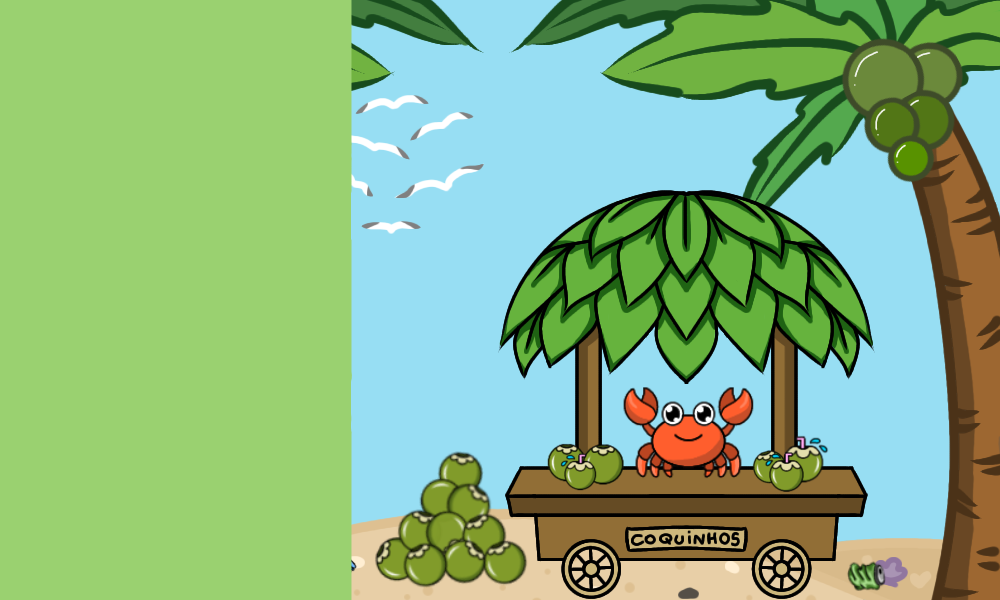
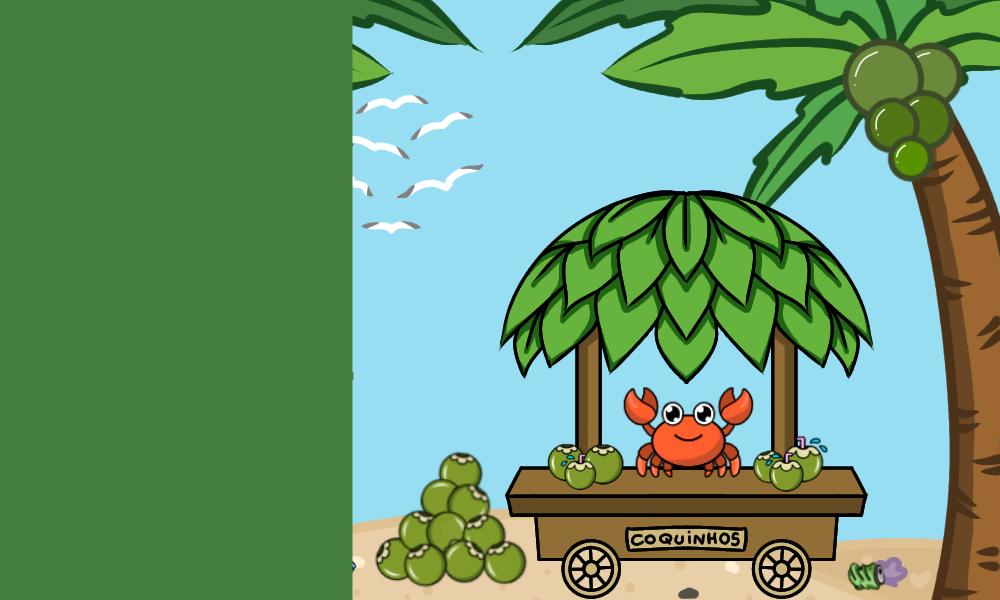
aumentando dificuldade
deixando a cena 1 mais legivel

diff --git a/src/game.c b/src/game.c
@@ -52,7 +52,7 @@ Texture2D texturasSkins[6][5];
 const char* nomesSkins[6] = { "player", "maria", "gaiamum", "pirata", "robo", "chico" };
 
 // Adiciona cocos conforme dificuldade aumenta //
-int cocosAdicionados = 2;
+int cocosAdicionados = 3;
 
 // Protótipos das funções de ranking e interface //
 void DrawTutorial();
@@ -100,11 +100,11 @@ void InitGame() {
 
     // Carrega o recorde e define o que está desbloqueado
     CarregarRecorde();
-    if (recorde >= 200)      maiorSkinDesbloqueada = 5;
-    else if (recorde >= 120) maiorSkinDesbloqueada = 4;
-    else if (recorde >= 80)  maiorSkinDesbloqueada = 3;
-    else if (recorde >= 50)  maiorSkinDesbloqueada = 2;
-    else if (recorde >= 20)  maiorSkinDesbloqueada = 1;
+    if (recorde >= 500)      maiorSkinDesbloqueada = 5;
+    else if (recorde >= 300) maiorSkinDesbloqueada = 4;
+    else if (recorde >= 180)  maiorSkinDesbloqueada = 3;
+    else if (recorde >= 100)  maiorSkinDesbloqueada = 2;
+    else if (recorde >= 50)  maiorSkinDesbloqueada = 1;
     else                     maiorSkinDesbloqueada = 0;
 
     // --- 2º INICIALIZA OS ELEMENTOS DO JOGO --- //
@@ -126,7 +126,7 @@ void InitGame() {
     bonusTimer = 0;
     gameOver = false;
     gameTimer = 0;
-    cocosAdicionados = 2;
+    cocosAdicionados = 3;
     playerSpeedMultiplier = 1.0f; 
 }
 
@@ -136,24 +136,27 @@ void UpdateGameProgression(float deltaTime) {
     extern void AddCoco(); 
     
     // Sistema de progressão da branch danda //
-    if (score >= 10 && cocosAdicionados == 2) {
-        AddCoco();
-        cocosAdicionados = 3;
-    } else if (score >= 25 && cocosAdicionados == 3) {
+    if (score >= 10 && cocosAdicionados == 3) {
         AddCoco();
         cocosAdicionados = 4;
-    } else if (score >= 50 && cocosAdicionados == 4) {
+    } else if (score >= 25 && cocosAdicionados == 4) {
         AddCoco();
-        cocosAdicionados = 5;
-    } else if (score >= 80 && cocosAdicionados == 5) {
         AddCoco();
         cocosAdicionados = 6;
-    } else if (score >= 120 && cocosAdicionados == 6) {
+    } else if (score >= 50 && cocosAdicionados == 6) {
         AddCoco();
         cocosAdicionados = 7;
-    } else if (score >= 200 && cocosAdicionados == 7) {
-        AddCoco();
+    } else if (score >= 80 && cocosAdicionados == 7) {
+        AddCoco(); 
         cocosAdicionados = 8;
+    } else if (score >= 120 && cocosAdicionados == 8) {
+        AddCoco(); 
+        AddCoco();
+        cocosAdicionados = 10;
+    } else if (score >= 200 && cocosAdicionados == 10) {
+        AddCoco();
+        AddCoco();
+        cocosAdicionados = 12;
     }
 
     // Player fica mais lento ao perder vidas //

diff --git a/src/screens.c b/src/screens.c
@@ -176,11 +176,11 @@ void DrawTutorialScreen(int skinSelecionada, int maiorSkinDesbloqueada, Texture2
 
         // Define o texto do preço baseado na skin selecionada
         const char* precoText = "0 Cocos";
-        if (skinSelecionada == 1)      precoText = "20 Cocos";
-        else if (skinSelecionada == 2) precoText = "50 Cocos";
-        else if (skinSelecionada == 3) precoText = "80 Cocos";
-        else if (skinSelecionada == 4) precoText = "120 Cocos";
-        else if (skinSelecionada == 5) precoText = "200 Cocos";
+        if (skinSelecionada == 1)      precoText = "50 Cocos";
+        else if (skinSelecionada == 2) precoText = "100 Cocos";
+        else if (skinSelecionada == 3) precoText = "180 Cocos";
+        else if (skinSelecionada == 4) precoText = "300 Cocos";
+        else if (skinSelecionada == 5) precoText = "500 Cocos";
 
         // Centraliza e desenha o texto vermelho do preço
         float spacingRubik = 1.0f;

diff --git a/src/coco.c b/src/coco.c
@@ -29,7 +29,7 @@ void SetCocoType(Coco *coco) {
     if (score >= 10) {
         minSpeed = 2;
         maxSpeed = 3.5f;
-    } else if (score >= 25) {
+    } else if (score >= 20) {
         minSpeed = 3;
         maxSpeed = 4;
     } else if (score >= 40) {
@@ -38,6 +38,9 @@ void SetCocoType(Coco *coco) {
     } else if (score >= 60) {
         minSpeed = 3.5f;
         maxSpeed = 5;
+    }else if (score >= 100) {
+        minSpeed = 4;
+        maxSpeed = 6;
     } else {
         minSpeed = 2; 
         maxSpeed = 2.5f;
@@ -104,7 +107,7 @@ void InitCocos() {
     douradoTexture = LoadTexture("assets/cocos/dourado.png");
     aguaTexture = LoadTexture("assets/cocos/agua.png");
     
-    for (int i = 0; i < 2; i++) {
+    for (int i = 0; i < 3; i++) {
         AddCoco();
     }
 }